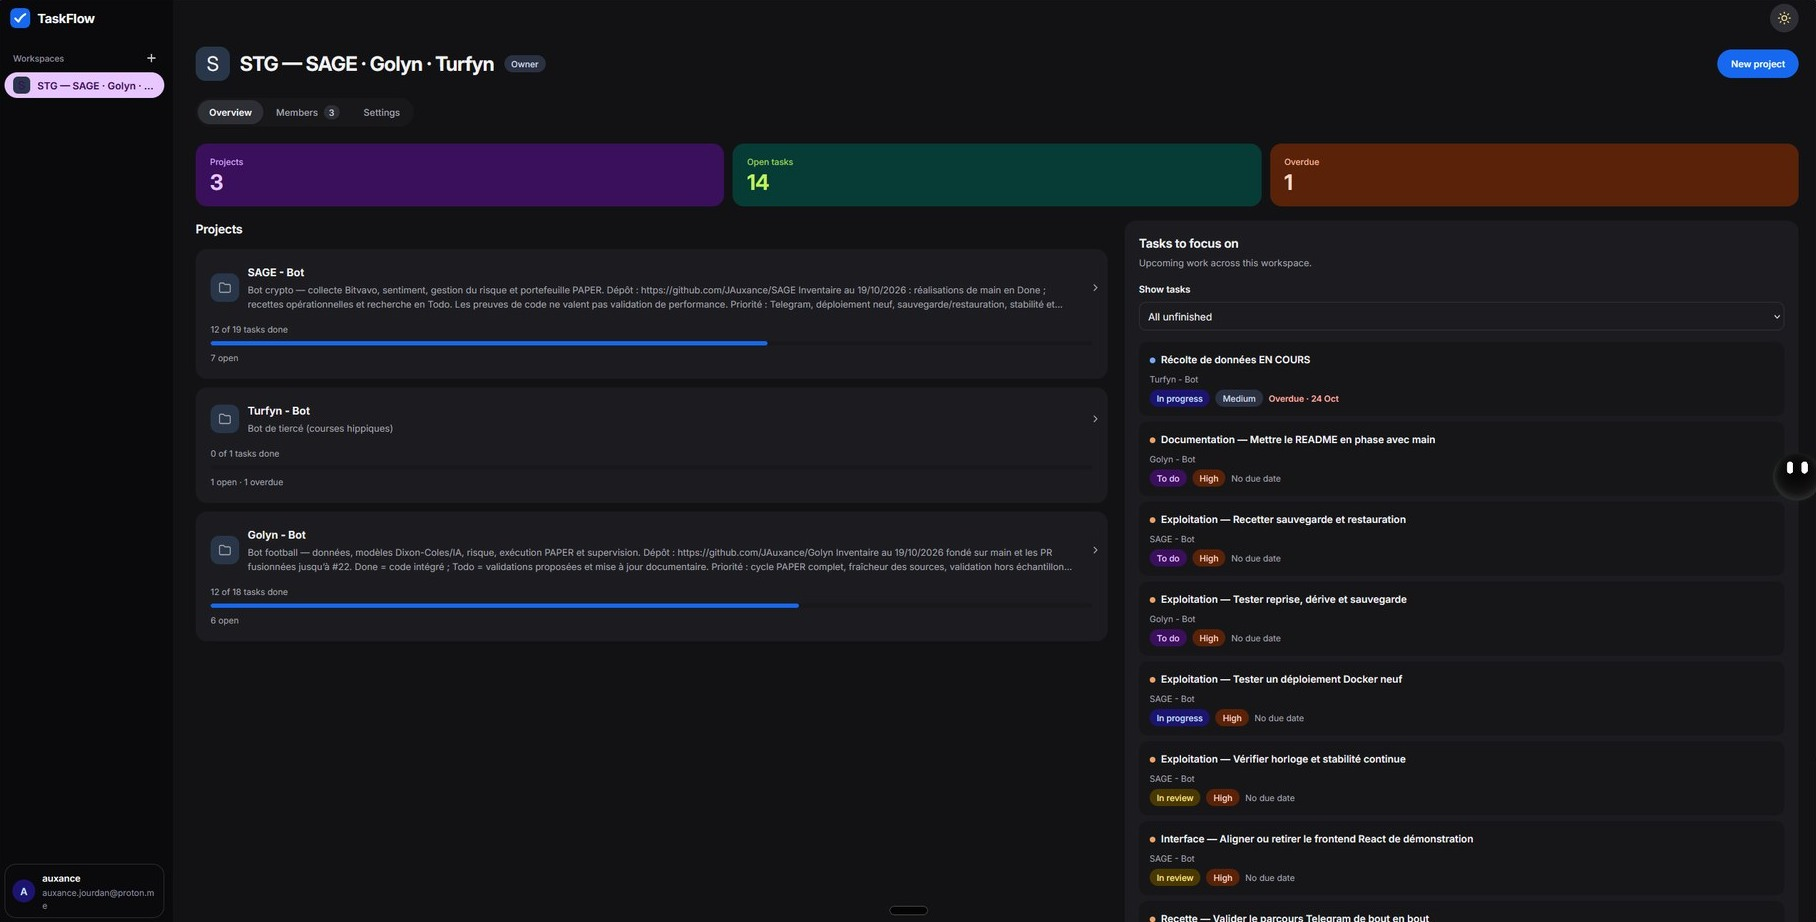
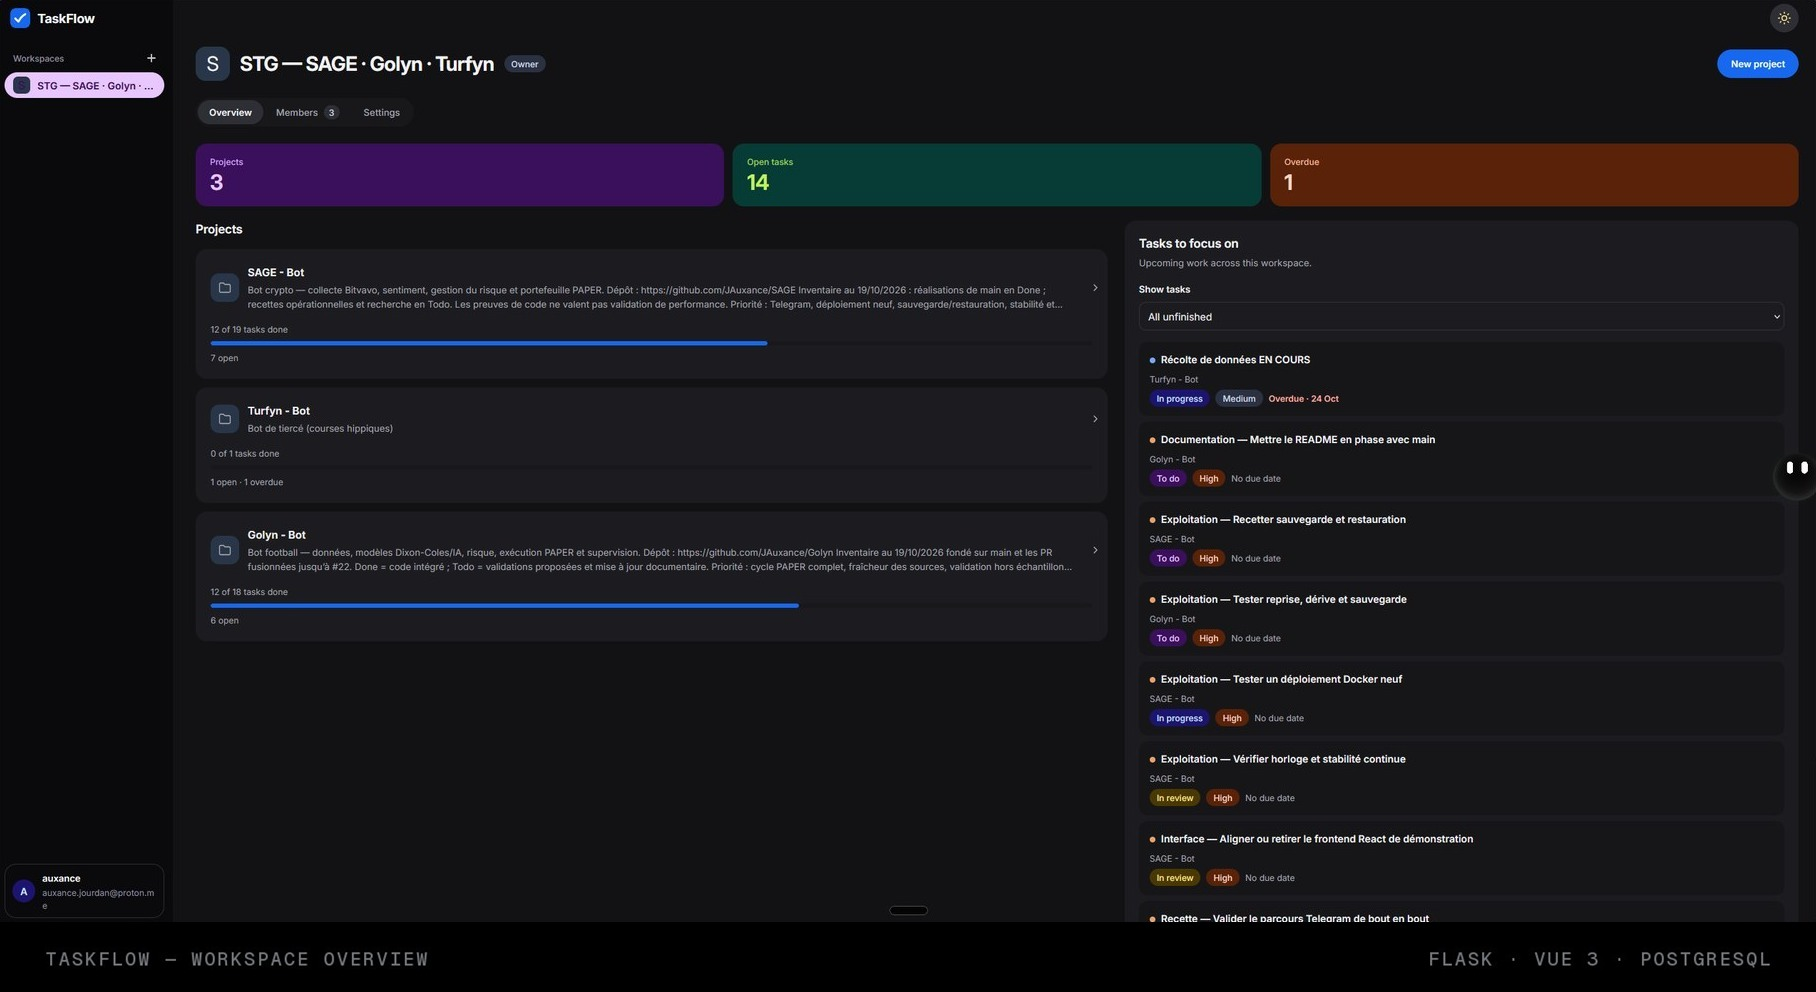
Match the TaskFlow card to the Manager layout

diff --git a/README.md b/README.md
@@ -44,8 +44,6 @@ Collaborative project management: workspaces, projects and a Kanban workflow. Bu
   <img src="assets/taskflow-card.jpg" alt="TaskFlow — workspace overview" width="100%">
 </a>
 
-<p>&nbsp;</p>
-
 | | |
 |---|---|
 | **Stack** | Flask · Vue 3 · TypeScript · PostgreSQL · Docker |
